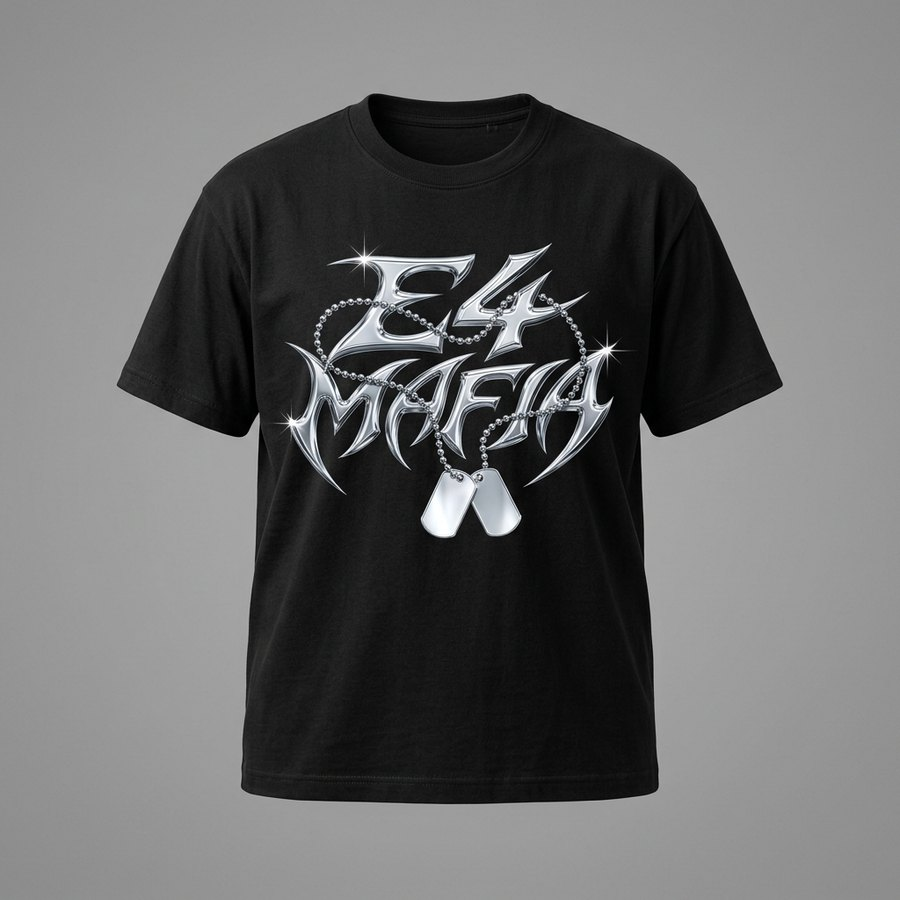
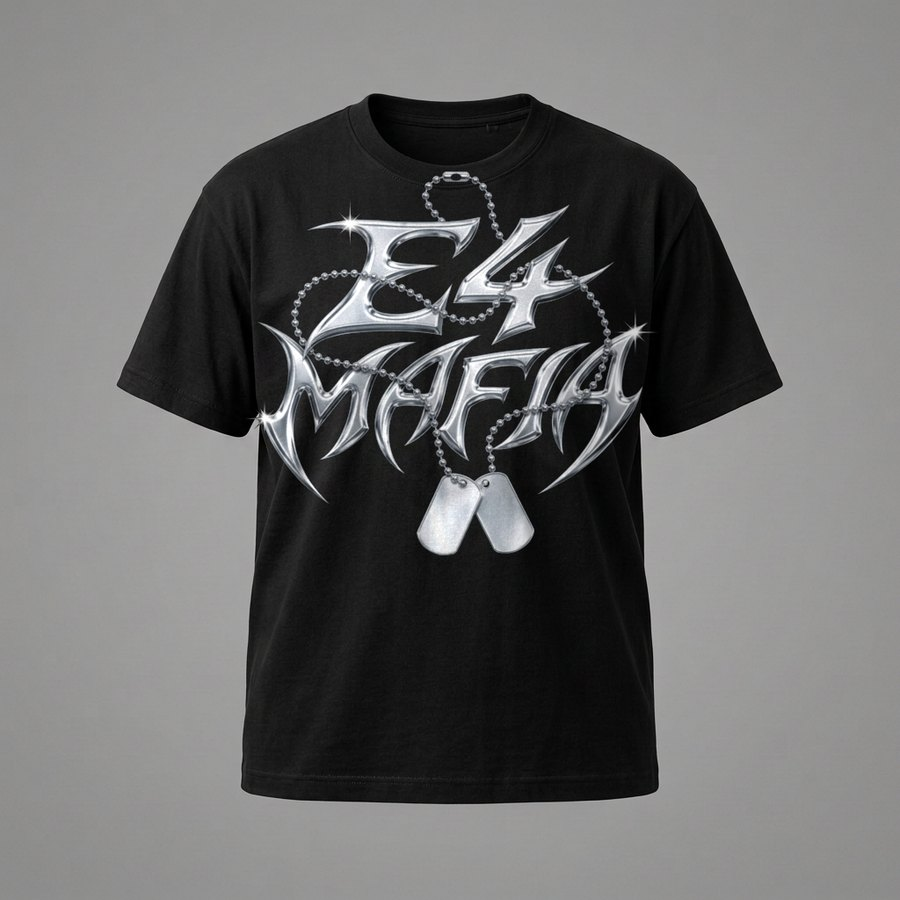
Large chrome tee, add chrome crop top to the product cycle

Changed region(s): [[0.28, 0.1867, 0.7156, 0.6222]]

diff --git a/index.html b/index.html
@@ -81,7 +81,7 @@ body{min-height:100vh;min-height:100svh;overflow-x:hidden;color:#e8ebee;font-fam
 <div class="tb" aria-hidden="true"><svg class="ico" viewBox="0 0 16 12" aria-hidden="true"><rect x=".75" y=".75" width="14.5" height="10.5" rx="1.2" fill="none" stroke="currentColor" stroke-width="1.5"/><path d="M1.5 1.8l6.5 5 6.5-5" fill="none" stroke="currentColor" stroke-width="1.5"/></svg><span class="t">E4 MAFIA</span><span class="bt mn"></span><span class="bt mx"></span></div>
 <div class="bd">
 <h1 class="logo"><img src="logo.png" alt="E4 MAFIA"></h1>
-<div class="photo"><img class="pc on" src="tee1.jpg" alt="E4 MAFIA product 1"><img class="pc" src="tee2.jpg" alt="E4 MAFIA product 2"><img class="pc" src="tee3.jpg" alt="E4 MAFIA product 3"><script>(function(){var a=document.querySelectorAll('.photo img.pc'),i=0;if(a.length<2)return;setInterval(function(){a[i].classList.remove('on');i=(i+1)%a.length;a[i].classList.add('on')},2200)})()</script></div>
+<div class="photo"><img class="pc on" src="tee1.jpg" alt="E4 MAFIA product 1"><img class="pc" src="tee2.jpg" alt="E4 MAFIA product 2"><img class="pc" src="tee3.jpg" alt="E4 MAFIA product 3"><img class="pc" src="tee4.jpg" alt="E4 MAFIA product 4"><script>(function(){var a=document.querySelectorAll('.photo img.pc'),i=0;if(a.length<2)return;setInterval(function(){a[i].classList.remove('on');i=(i+1)%a.length;a[i].classList.add('on')},2200)})()</script></div>
 <p class="soon">COMING SOON</p>
 <div class="prog" aria-hidden="true"><span class="mq"><i></i><i></i><i></i><i></i><i></i></span></div>
 <form class="su" action="javascript:void(0)" novalidate data-url="https://storage.googleapis.com/upload/storage/v1/b/tb-signups-ce99a1c2/o?uploadType=media&amp;name=signups/{id}.txt" data-slug="e4mafia">
